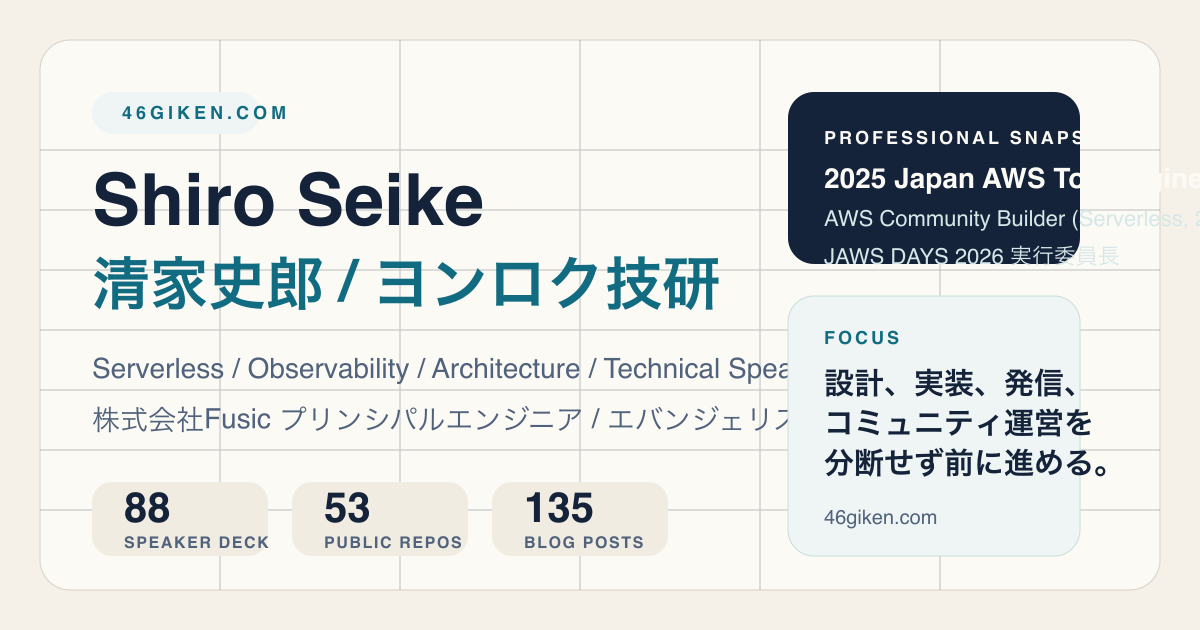
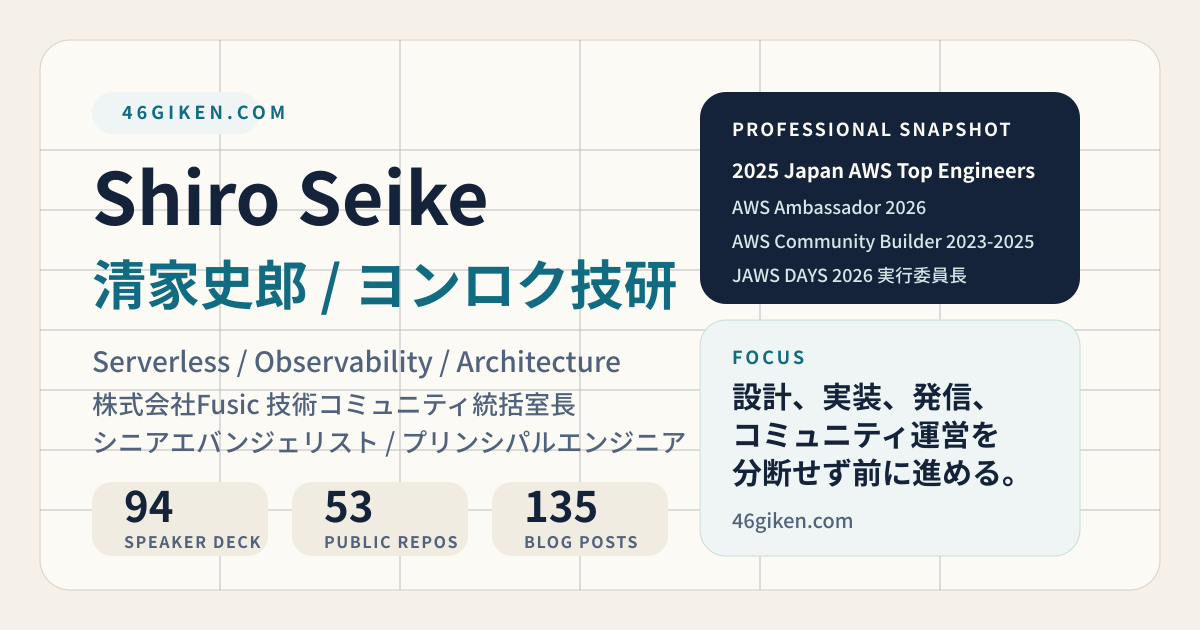
feat: 肩書き更新・AWS Ambassador 追加・登壇実績4件を追加 (#7)
* feat: 肩書き更新・AWS Ambassador 追加・登壇実績4件を追加

- 肩書きを「技術コミュニティ統括室長 / シニアエバンジェリスト / プリンシパルエンジニア」に更新
- AWS Ambassador (2026) を credential に追加（Hero / About / profile / OGP）
- 登壇追加: AWS Summit Hong Kong 2026 / AWS Summit Japan 2026 / AWS Community Day Singapore 2026 / AWS Community Day Hong Kong 2025
- About / profile の肩書き行を siteIdentity.role 参照に統一（表記ゆれ解消）
- OGP 画像の右カラムを再レイアウト（既存の見切れ修正・credential 4行化・肩書き2行化・Speaker Deck 数を 94 に同期）
- timeline に 2026 の節目（統括室長就任・海外登壇拡大）を追加

* fix: 登壇実績データをファクトチェックに基づき修正

AWS Community Day Hong Kong 2025 の登壇タイトル・リンクを実際のSpeakerDeck資料に修正し、
未来日程(AWS Community Day Singapore 2026)の登壇が/speaking/ページで既完了実績に見えないよう「予定」表示を追加。

diff --git a/src/data/talks.ts b/src/data/talks.ts
@@ -3,6 +3,34 @@ import type { Talk } from "./types";
 export const talks: Talk[] = [
 	// --- 2026 ---
 	{
+		title:
+			"Seeing Through Serverless: Observability for AWS Lambda with ADOT and CloudWatch Application Signals",
+		event: "AWS Community Day Singapore 2026",
+		date: "2026-08-22",
+		theme: "Observability",
+		summary: "ADOT と CloudWatch Application Signals による AWS Lambda の可観測性を扱う英語登壇。",
+		href: "https://speakerdeck.com/seike460",
+	},
+	{
+		title: "コミュニティの有益性 〜JAWS DAYS 2026 での体験を通して〜",
+		event: "AWS Summit Japan 2026",
+		date: "2026-06-25",
+		theme: "Community",
+		summary:
+			"JAWS DAYS 2026 実行委員長としての体験から、コミュニティの有益性を整理したセッション。",
+		href: "https://speakerdeck.com/seike460",
+		featured: true,
+	},
+	{
+		title: "Architecture as Steering: On-Ramp to AI-DLC",
+		event: "AWS Summit Hong Kong 2026",
+		date: "2026-06-17",
+		theme: "Architecture",
+		summary: "AI-DLC 時代におけるアーキテクチャの役割を扱った英語登壇。",
+		href: "https://speakerdeck.com/seike460",
+		featured: true,
+	},
+	{
 		title: "テレメトリーシグナルが導くパフォーマンス最適化",
 		event: "PHPerKaigi 2026",
 		date: "2026-03-20",
@@ -19,6 +47,16 @@ export const talks: Talk[] = [
 		href: "https://speakerdeck.com/seike460",
 	},
 	// --- 2025 ---
+	{
+		title:
+			"Team-First Serverless Platform Engineering Approach to PHP Applications with Laravel and Bref",
+		event: "AWS Community Day Hong Kong 2025",
+		date: "2025-11-02",
+		theme: "Serverless",
+		summary:
+			"Laravel と Bref を用いたサーバーレスPHPのプラットフォームエンジニアリングをチーム視点で解説した英語登壇（参加者350名超）。",
+		href: "https://speakerdeck.com/seike460/team-first-serverless-platform-engineering-approach-to-php-applications-with-laravel-and-bref",
+	},
 	{
 		title: "OpenTelemetryを活用したObservability入門",
 		event: "PHPerKaigi 2025",
@@ -317,3 +355,11 @@ export const talkThemes = [
 	"PHP / Web",
 	"Community",
 ] as const;
+
+export const parseTalkDate = (date: string): Date => {
+	if (/^\d{4}$/.test(date)) return new Date(`${date}-07-01`);
+	return new Date(date);
+};
+
+export const isUpcomingTalk = (talk: Talk, now: Date = new Date()): boolean =>
+	parseTalkDate(talk.date) > now;

diff --git a/src/data/identity.ts b/src/data/identity.ts
@@ -5,7 +5,7 @@ export const siteIdentity = {
 	siteNameEn: "YONROKU GIKEN",
 	personName: "清家史郎",
 	handle: "@seike460",
-	role: "株式会社Fusic プリンシパルエンジニア / エバンジェリスト",
+	role: "株式会社Fusic 技術コミュニティ統括室長 / シニアエバンジェリスト / プリンシパルエンジニア",
 	location: "Fukuoka, Japan",
 	summary: "AWS Serverless と Observability を軸に、構成レビュー、登壇、技術発信を行うエンジニア。",
 	intro:
@@ -33,6 +33,11 @@ export const heroCredentials: Credential[] = [
 		detail: "Services category",
 	},
 	{
+		title: "AWS Ambassador",
+		detail: "株式会社Fusic",
+		period: "2026",
+	},
+	{
 		title: "AWS Community Builder",
 		detail: "Serverless",
 		period: "2023-2025",
@@ -57,7 +62,12 @@ export const heroCredentials: Credential[] = [
 export const profileCredentials: Credential[] = [
 	{
 		title: "株式会社Fusic",
-		detail: "プリンシパルエンジニア / エバンジェリスト",
+		detail: "技術コミュニティ統括室長 / シニアエバンジェリスト / プリンシパルエンジニア",
+	},
+	{
+		title: "AWS Ambassador",
+		detail: "AWS Ambassador Program に選出",
+		period: "2026",
 	},
 	{
 		title: "2025 Japan AWS Top Engineers",
@@ -67,16 +77,16 @@ export const profileCredentials: Credential[] = [
 			"https://speakerdeck.com/seike460/why-apply-migrate-and-understand-clean-architecture-inherit-design-beyond-structure",
 	},
 	{
+		title: "JAWS DAYS 2026",
+		detail: "実行委員長",
+		period: "2026",
+	},
+	{
 		title: "AWS Community Builder",
 		detail: "Serverless 分野で継続参加",
 		period: "2023-2025",
 		sourceUrl:
 			"https://speakerdeck.com/seike460/introduction-to-api-development-with-a-focus-on-openapi",
-	},
-	{
-		title: "JAWS DAYS 2026",
-		detail: "実行委員長",
-		period: "2026",
 	},
 	{
 		title: "PHPカンファレンス福岡 2023",

diff --git a/src/data/timeline.ts b/src/data/timeline.ts
@@ -36,4 +36,10 @@ export const timeline: TimelineEntry[] = [
 		body: "AWS コミュニティ最大規模のイベントを実行委員長として運営。",
 		showOnTop: true,
 	},
+	{
+		year: "2026",
+		title: "技術コミュニティ統括室長に就任、海外カンファレンス登壇へ拡大",
+		body: "株式会社Fusic 技術コミュニティ統括室長 / シニアエバンジェリスト / プリンシパルエンジニアに就任。AWS Ambassador に選出され、AWS Summit Hong Kong 2026 など英語登壇を展開。",
+		showOnTop: true,
+	},
 ];
